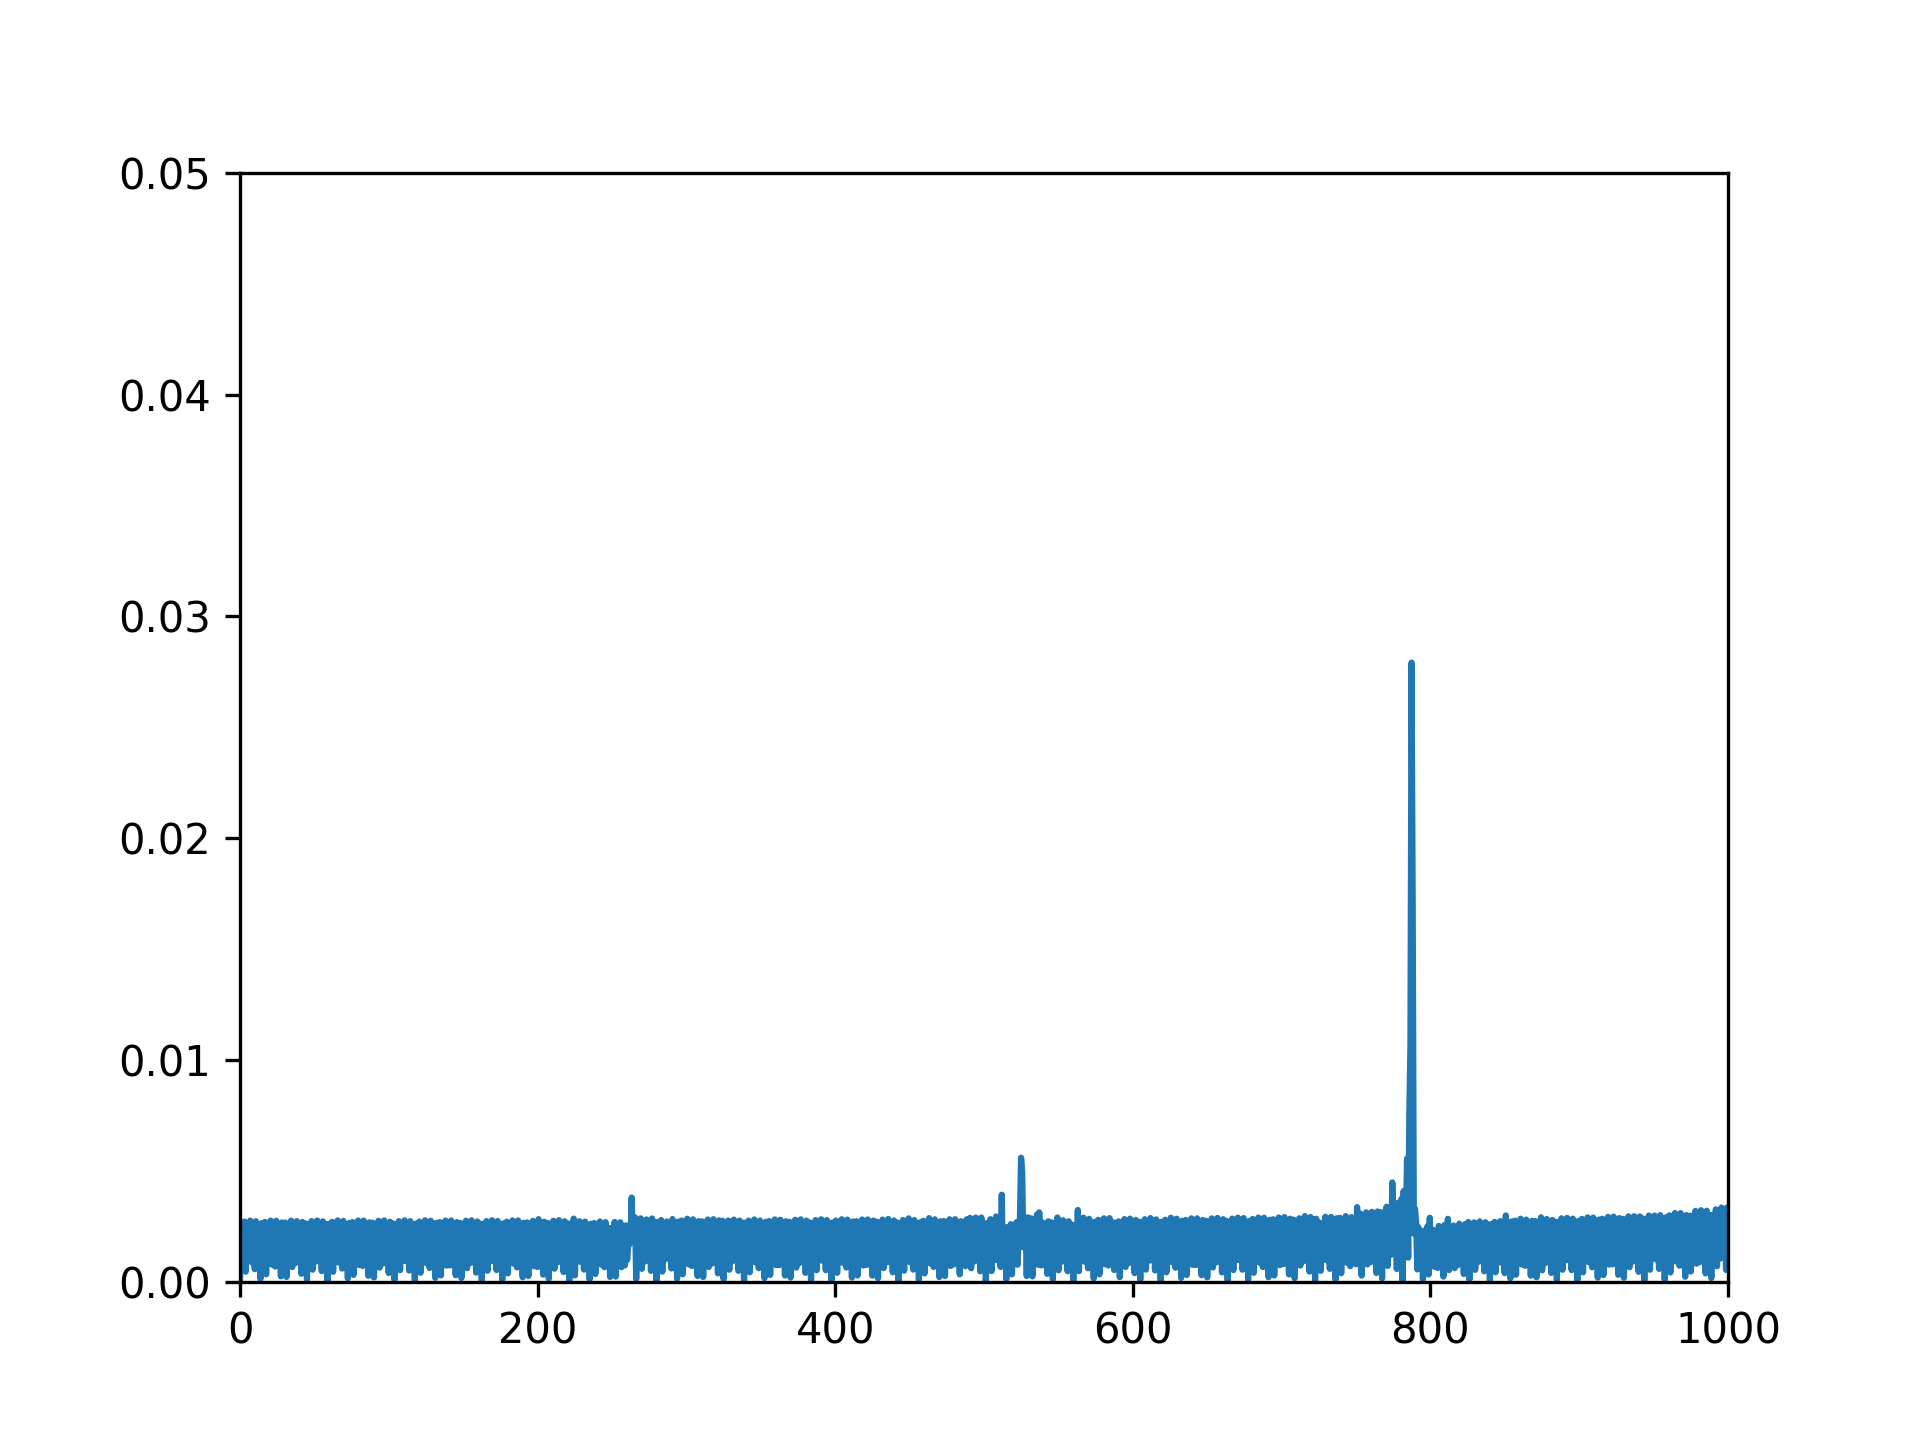
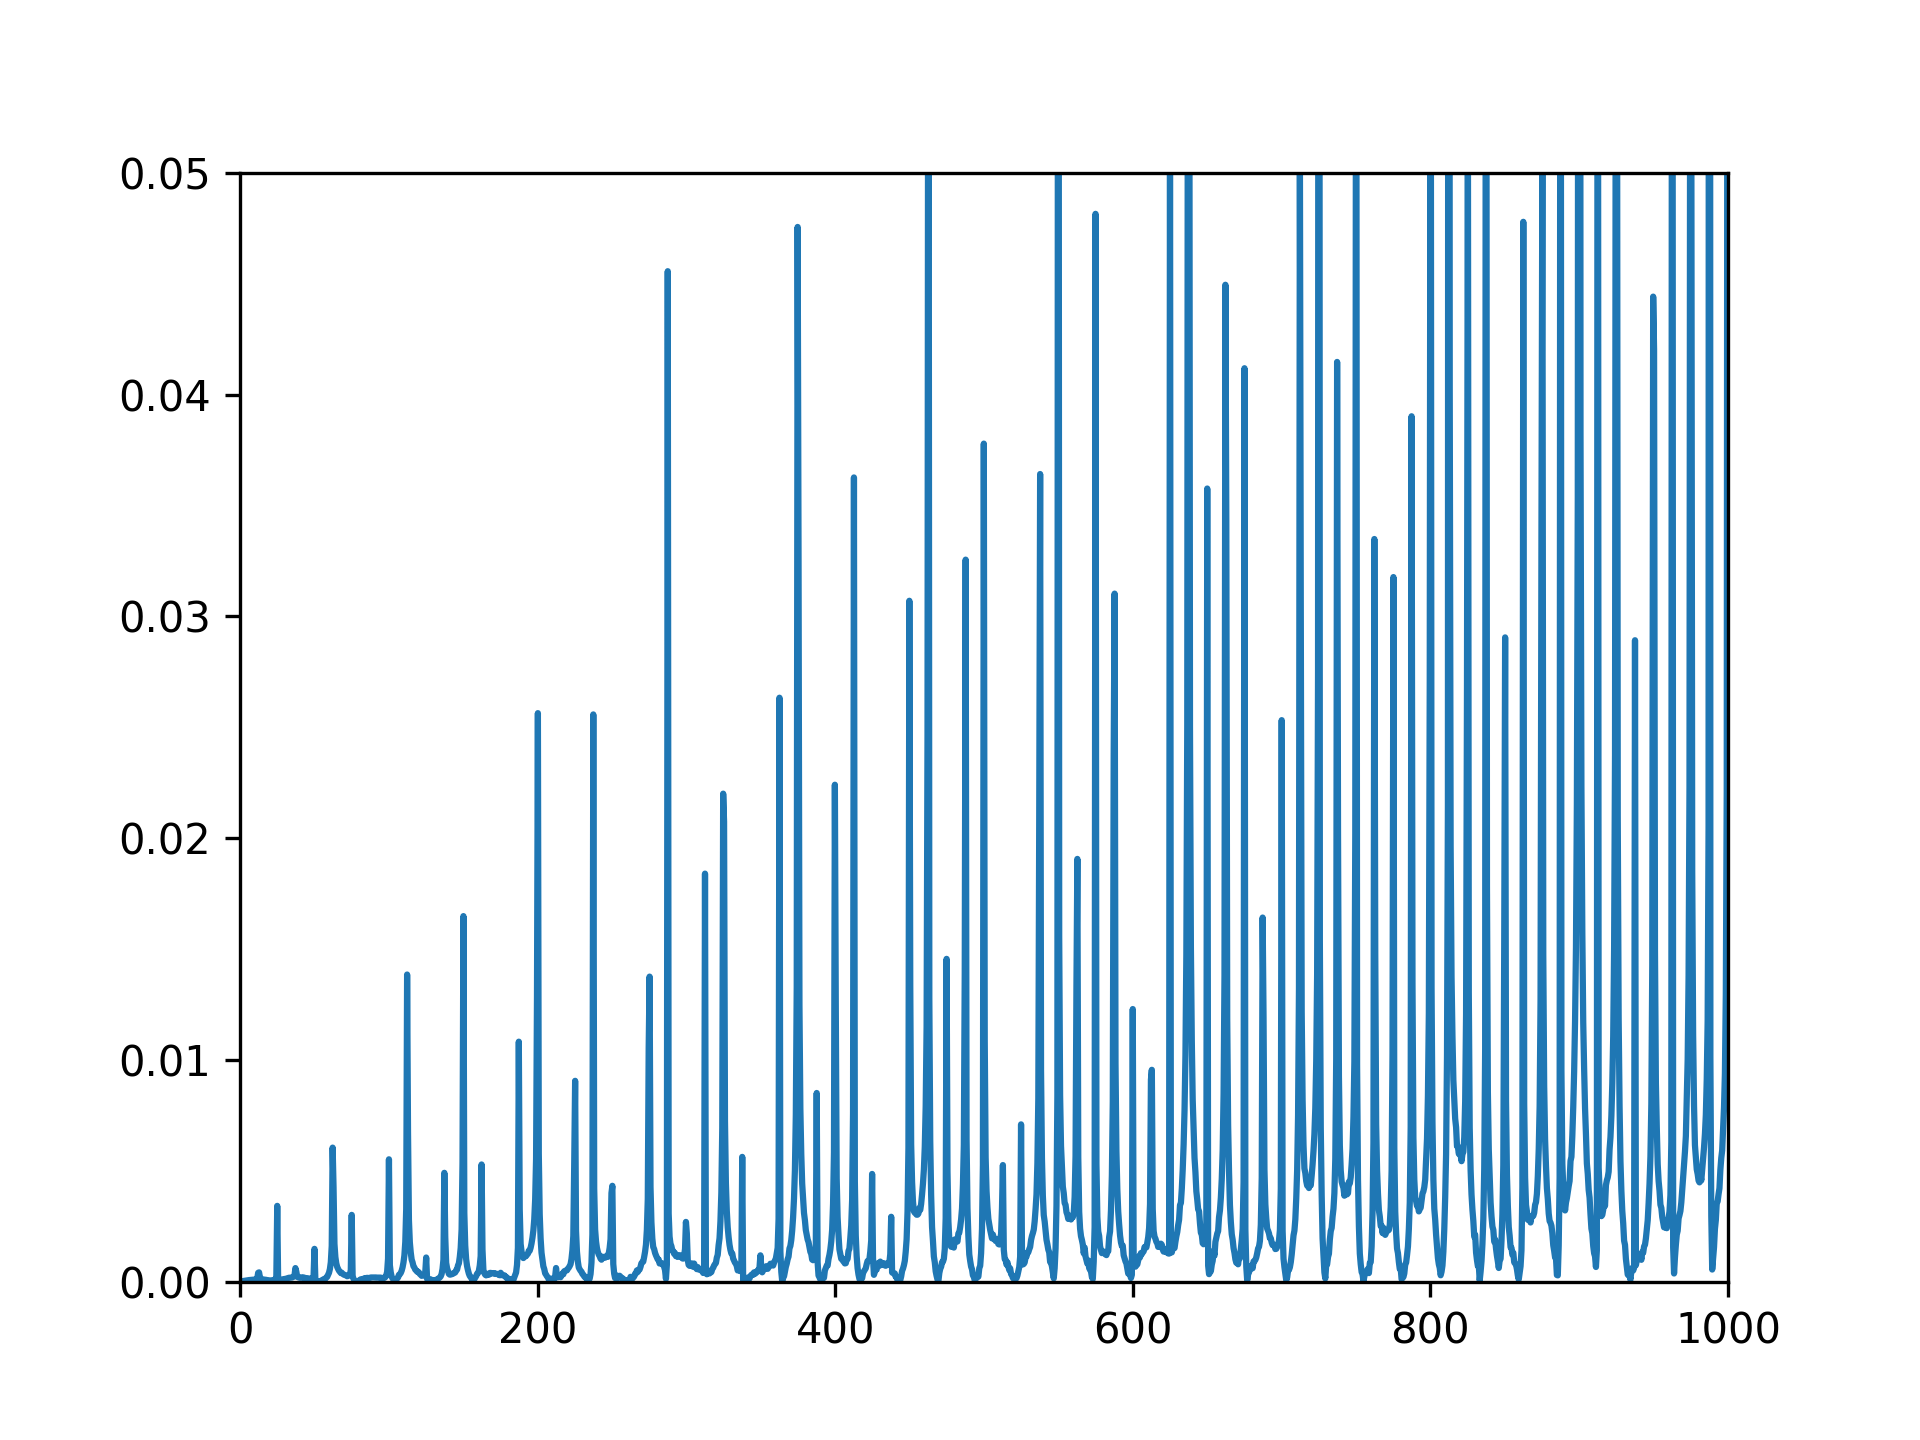
re parameters in main.py

Changed region(s): [[0.125, 0.125, 0.9062, 0.9062]]

diff --git a/main.py b/main.py
@@ -19,15 +19,15 @@ def load_K(filename):
 
 def fft_trans(y, fs):
     # nfft = len(y)
-    nfft = 2 ** int(np.ceil(np.log2(len(y))))
     y = y - y.mean()
+    nfft = 2 ** int(np.ceil(np.log2(len(y))))
     y = scipy.signal.hilbert(y)
     y_ft = fft.fft(y, nfft) / (nfft / 2)
     y_f = fs * np.arange(nfft // 2) / nfft
     return y_f, abs(y_ft[0:int(nfft / 2)])
 
 
-def healthy_bearing(savedata=False):
+def healthy_bearing(savedata=False, fs=1e4, show=False, T=1):
     filename = 'NUP205'
     Ki, Ko = load_K(filename)
     Nb = 13
@@ -41,15 +41,13 @@ def healthy_bearing(savedata=False):
     c = 1e-6
     wi = 3000 / 60 * 2 * np.pi
     wc = wi / 2 * (1 - Rr / Rm)
-    fs = int(1e5)
-    T = 1
+    fs = int(fs)
     t_span = np.linspace(0, T, T * fs + 1)
     DOF = 4
     y0 = np.zeros(DOF * 2)
     # (t, y, Fr, Nb, mi, mo, wc, Ki, Ko, Kbh, Cbh, c)
     result = solve_ivp(BearingModel.ode_system, [0, T], y0, t_eval=t_span,
-                       args=(Fr, Nb, mi, mo, wc, Ki, Ko, Kbh, Cbh, c),
-                       max_step=1e-5, rtol=1, atol=1)
+                       args=(Fr, Nb, mi, mo, wc, Ki, Ko, Kbh, Cbh, c))
     y = result.y
     signal = y[7, :]
     signal = np.diff(signal) * fs
@@ -59,16 +57,19 @@ def healthy_bearing(savedata=False):
     plt.ylim([-3, 3])
     plt.xlim([0.948, 0.964])
     plt.savefig(f"{filename}/{filename}_t_healthy.png", dpi=300)
-    plt.close()
+    if not show:
+        plt.close()
     plt.figure(2)
     y_f, y_a = fft_trans(signal[int(0.2 * fs):], fs)
     plt.plot(y_f, y_a)
     plt.xlim([0, 1000])
     plt.ylim([0, 0.006])
     plt.savefig(f"{filename}/{filename}_f_healthy.png", dpi=300)
-    plt.close()
-    # mplcursors.cursor()
-    # plt.show()
+    if not show:
+        plt.close()
+    if show:
+        mplcursors.cursor()
+        plt.show()
     if savedata:
         data = np.zeros((4, fs * T))
         for i in range(4):
@@ -77,7 +78,7 @@ def healthy_bearing(savedata=False):
         data.to_csv(f"{filename}/{filename}_healthy.csv", header=False, index=False)
 
 
-def OuterDefect_bearing(savedata=False):
+def OuterDefect_bearing(savedata=False, fs=1e4, show=False, T=1):
     filename = 'NUP205'
     Ki, Ko = load_K(filename)
     Nb = 13
@@ -89,10 +90,9 @@ def OuterDefect_bearing(savedata=False):
     Rm = 19.5e-3
     Rr = 3.75e-3
     c = 1e-6
-    wi = 3000 / 60 * 2 * np.pi
+    wi = 1000 / 60 * 2 * np.pi
     wc = wi / 2 * (1 - Rr / Rm)
-    fs = int(1e5)
-    T = 1
+    fs = int(fs)
     t_span = np.linspace(0, T, T * fs + 1)
     DOF = 4
     y0 = np.zeros(DOF * 2)
@@ -113,12 +113,12 @@ def OuterDefect_bearing(savedata=False):
     plt.figure(1)
     plt.plot(phi, Hdo)
     plt.savefig(f"{filename}/{filename}_Hdo.png", dpi=300)
-    plt.close()
+    if not show:
+        plt.close()
 
     # def ode_system(t, y, Fr, Nb, mi, mo, wc, Ki, Ko, Kbh, Cbh, c, dC=0, phi_Do=0, phi_oc=0)
     result = solve_ivp(BearingModel.ode_system, [0, T], y0, t_eval=t_span,
-                       args=(Fr, Nb, mi, mo, wc, Ki, Ko, Kbh, Cbh, c, dC, phi_do, phi_oc),
-                       max_step=1e-5, rtol=1, atol=1)
+                       args=(Fr, Nb, mi, mo, wc, Ki, Ko, Kbh, Cbh, c, dC, phi_do, phi_oc), )
     y = result.y
     signal = y[7, :]
     signal = np.diff(signal) * fs
@@ -126,26 +126,32 @@ def OuterDefect_bearing(savedata=False):
     plt.figure(2)
     plt.plot(t, signal)
     plt.ylim([-1500, 1500])
-    plt.xlim([0.948, 0.964])
+    plt.xlim([0.5, 1])
     plt.savefig(f"{filename}/{filename}_t_outer.png", dpi=300)
-    plt.close()
+    if not show:
+        plt.close()
     plt.figure(3)
-    y_f, y_a = fft_trans(signal[int(0.2 * fs):], fs)
+    y_f, y_a = fft_trans(signal[int(0.4 * fs):], fs)
     plt.plot(y_f, y_a)
     plt.xlim([0, 1000])
     plt.ylim([0, 0.05])
     plt.savefig(f"{filename}/{filename}_f_outer.png", dpi=300)
-    plt.close()
+    if not show:
+        plt.close()
+    if show:
+        mplcursors.cursor()
+        plt.show()
 
-    # plt.show()
     if savedata:
         data = np.zeros((4, fs * T))
         for i in range(4):
             data[i] = np.diff(y[4 + i, :]) * fs
         data = pandas.DataFrame(data)
         data.to_csv(f"{filename}/{filename}_outer.csv", header=False, index=False)
+    return t, signal
 
-def InnerDefect_bearing(savedata=False):
+
+def InnerDefect_bearing(savedata=False, fs=1e4, show=False, T=1):
     filename = 'NUP205'
     Ki, Ko = load_K(filename)
     Nb = 13
@@ -159,8 +165,7 @@ def InnerDefect_bearing(savedata=False):
     c = 1e-6
     wi = 3000 / 60 * 2 * np.pi
     wc = wi / 2 * (1 - Rr / Rm)
-    fs = int(1e5)
-    T = 1
+    fs = int(fs)
     t_span = np.linspace(0, T, T * fs + 1)
     DOF = 4
     y0 = np.zeros(DOF * 2)
@@ -168,7 +173,7 @@ def InnerDefect_bearing(savedata=False):
     基于动力学的滚动轴承多点故障建模及振动特性研究_李君飞.pdf --> page27
     相较于健康工况，增加参数dC ，phi_do, phi_oc
     '''
-    B = 0.2e-3  # 故障宽度 mm
+    B = 0.1e-3  # 故障宽度 mm
     Cd = Rr - np.sqrt(Rr ** 2 - (B / 2) ** 2)
     Ri = Rm - Rr / 2
     Ci = Ri - np.sqrt(Ri ** 2 - (B / 2) ** 2)
@@ -176,12 +181,12 @@ def InnerDefect_bearing(savedata=False):
     phi_di = np.arcsin(B / 2 / Ri)
     phi_oci = 0
     # 角度-内滚道故障位移激励测试
-    phi = np.linspace(0, 2 * np.pi, 1000)
-    Hdo = BearingModel.Hdi_calculate(phi, dCi, phi_di, phi_oci)
-    plt.figure(1)
-    plt.plot(phi, Hdo)
-    plt.savefig(f"{filename}/{filename}_Hdi.png", dpi=300)
-    plt.close()
+    # phi = np.linspace(0, 2 * np.pi, 1000)
+    # Hdo = BearingModel.Hdi_calculate(phi, dCi, phi_di, phi_oci)
+    # plt.figure(1)
+    # plt.plot(phi, Hdo)
+    # plt.savefig(f"{filename}/{filename}_Hdi.png", dpi=300)
+    # plt.close()
 
     '''
     def ode_system(t, y, Fr, Nb, mi, mo, wc, Ki, Ko, Kbh, Cbh, c,
@@ -192,8 +197,7 @@ def InnerDefect_bearing(savedata=False):
     result = solve_ivp(BearingModel.ode_system, [0, T], y0, t_eval=t_span,
                        args=(Fr, Nb, mi, mo, wc, Ki, Ko, Kbh, Cbh, c,
                              0, 0, 0,
-                             dCi, phi_di, wi, phi_oci),
-                       max_step=1e-5, rtol=1, atol=1)
+                             dCi, phi_di, wi, phi_oci))
     y = result.y
     signal = y[7, :]
     signal = np.diff(signal) * fs
@@ -203,24 +207,30 @@ def InnerDefect_bearing(savedata=False):
     plt.ylim([-4000, 4000])
     plt.xlim([0.5, 1])
     plt.savefig(f"{filename}/{filename}_t_inner.png", dpi=300)
-    # plt.close()
+    if not show:
+        plt.close()
     plt.figure(3)
     y_f, y_a = fft_trans(signal[int(round(0.2 * fs)):], fs)
     plt.plot(y_f, y_a)
     plt.xlim([0, 1000])
     plt.ylim([0, 0.04])
     plt.savefig(f"{filename}/{filename}_f_inner.png", dpi=300)
-    # plt.close()
+    if not show:
+        plt.close()
+    if show:
+        mplcursors.cursor()
+        plt.show()
+    if savedata:
+        data = np.zeros((4, fs * T))
+        for i in range(4):
+            data[i] = np.diff(y[4 + i, :]) * fs
+        data = pandas.DataFrame(data)
+        data.to_csv(f"{filename}/{filename}_inner.csv", header=False, index=False)
 
-    mplcursors.cursor()
-    plt.show()
 
 if __name__ == '__main__':
     matplotlib.use('TkAgg')
 
-    healthy_bearing(savedata=False)
-    # OuterDefect_bearing(savedata=False)
-    # InnerDefect_bearing()
-
-
-
+    # healthy_bearing(savedata=False, show=True, T=3)
+    OuterDefect_bearing(savedata=False, show=True, T=2, fs=1e4)
+    # InnerDefect_bearing(savedata=False, show=True, T=3)

diff --git a/README.md b/README.md
@@ -25,13 +25,16 @@ _____
 
 2025年8月21日
 
-外圈参数未生效的原因为故障未被设置在承载区，有效范围应该在0-180°之间。
+外圈参数未生效的原因为故障未被设置在承载区，有效范围应该在0-180°之间。修改了频谱图为包络谱。
 
 增加内圈参数：
 1. dCi，内圈故障位移激励参数，类似与外圈激励参数
 2. phi_di，内圈故障区域角度范围
 3. wi，内圈转速，目前仅内圈故障时需要输入该参数
 4. phi_oci，内圈故障区域初始中心角度，可忽略
+
+当前问题：故障条件振动加速度幅值极其诡异，包络谱也可能存在问题。幅值大小和积分步长负相关，更大的积分步长
+能够显著减小幅值。
 
 2025年8月19日 
 
